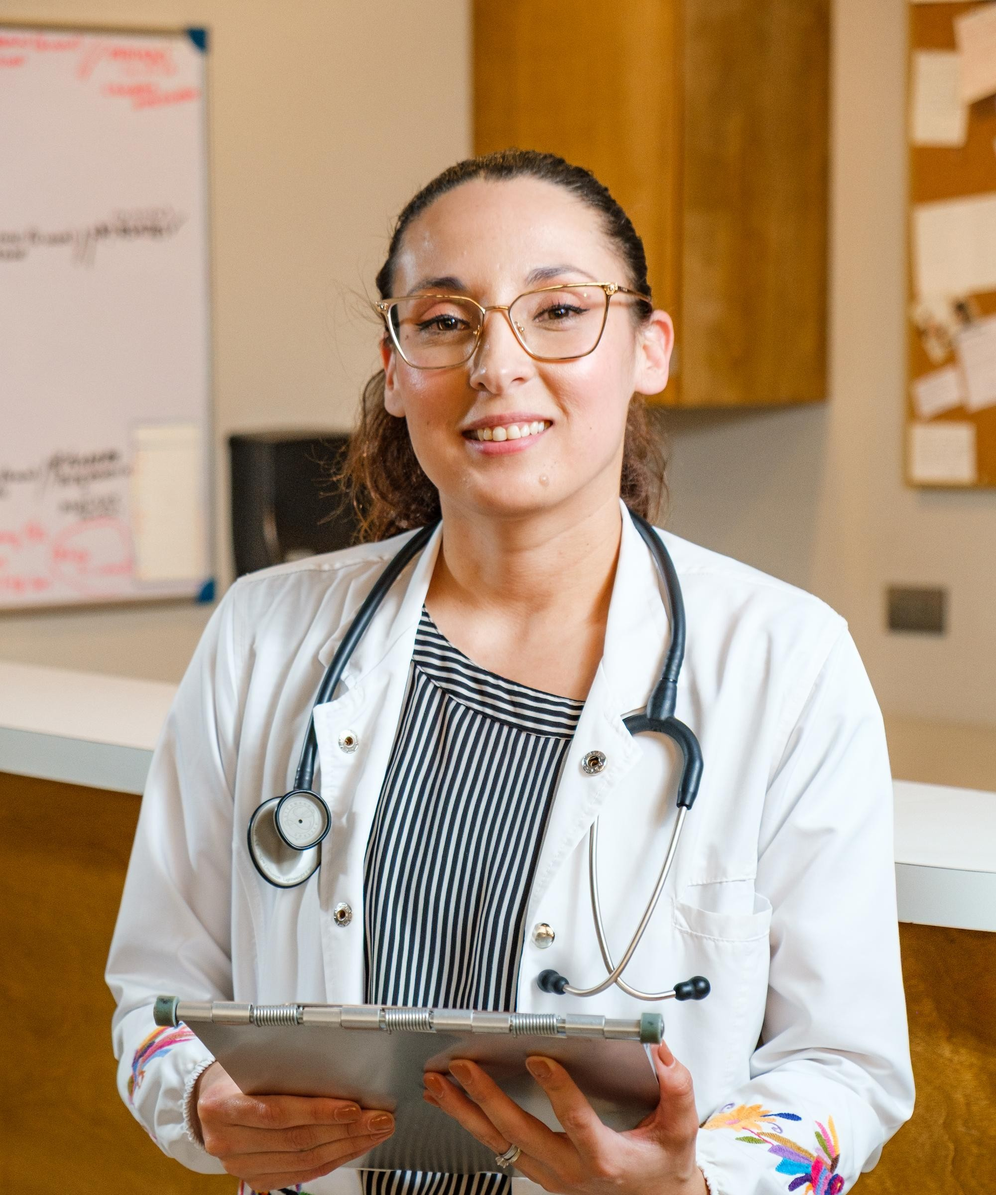
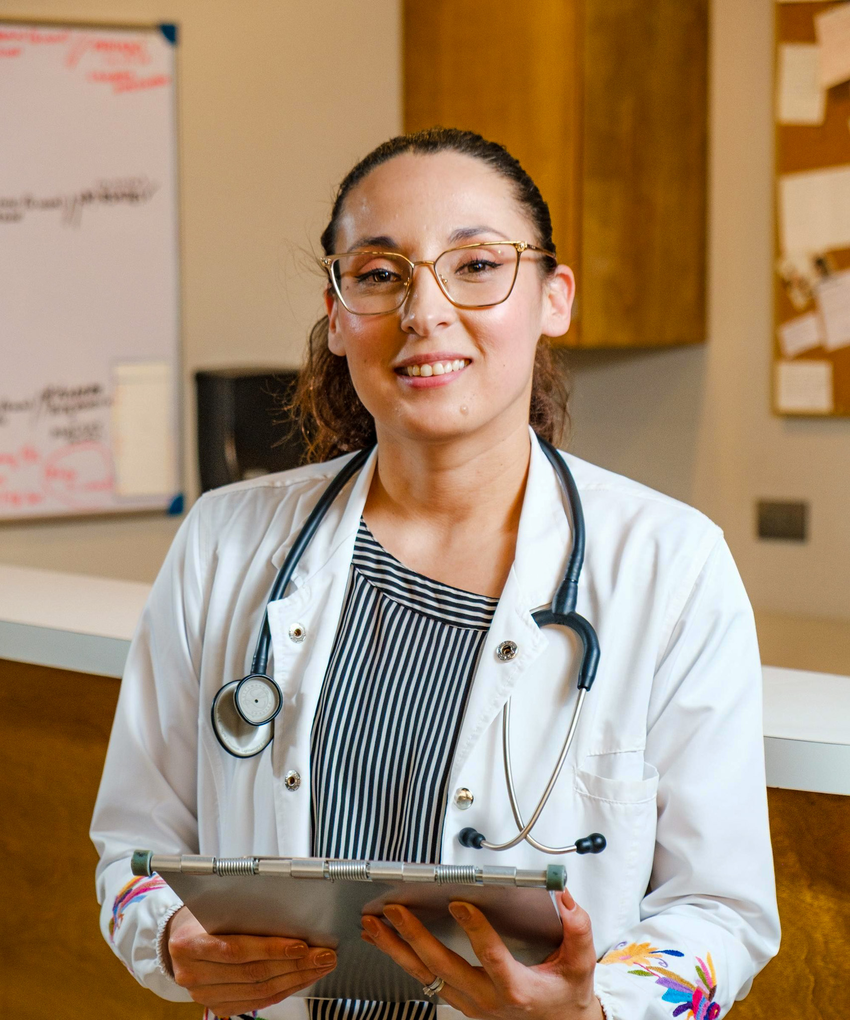
update HP

diff --git a/src/app/panorama/page.tsx b/src/app/panorama/page.tsx
@@ -28,7 +28,7 @@ function SpherePanorama({ image, rotation }: { image: string; rotation: any }) {
         setLoading(false);
       },
       undefined,
-      (error) => console.error("Error al cargar la textura:", error)
+      (error) => console.error("Error al cargar la textura:", error),
     );
   }, [image]);
 
@@ -64,7 +64,8 @@ export default function Panorama360() {
   const { t } = useTranslation();
 
   const images = [
-    { src: "/studio_small_09_4k.jpg", key: "studio" },
+    { src: "/360/tst.jpg", key: "studio" },
+    { src: "/360/test.jpg", key: "playRoom" },
     { src: "/empty_play_room_2k.jpg", key: "playRoom" },
     { src: "/river_alcove_4k.jpg", key: "riverAlcove" },
     { src: "/moon_lab_4k.jpg", key: "moonLab" },

diff --git a/src/app/components/BannerWithImage.tsx b/src/app/components/BannerWithImage.tsx
@@ -84,7 +84,7 @@ const BannerWithImage: React.FC = () => {
                 <div className="relative bg-white rounded-3xl p-2 shadow-2xl">
                   <div className="relative aspect-[16/11] rounded-2xl overflow-hidden">
                     <img
-                      src="/doctores4.jpg"
+                      src="/Palmas Recovery Doctores.jpg"
                       alt={t("bannerWithImage.imageAlt")}
                       className="w-full h-full object-cover transition-transform duration-700 group-hover:scale-105"
                       loading="lazy"

diff --git a/src/app/components/AnimationHero.tsx b/src/app/components/AnimationHero.tsx
@@ -28,11 +28,13 @@ export default function AnimationHero() {
   const getSlideImage = (id: string) => {
     switch (id) {
       case "shared-room":
-        return "/habitacion_compartida.jpg";
+        return "/shared.jpg";
       case "private-room":
-        return "/habitacion_privada.jpg";
+        return "/vip-suite.jpg";
+
       case "vip-suite":
-        return "/habitacion_vip.jpg";
+        return "/private.jpg";
+
       default:
         return "/habitacion_compartida.jpg";
     }
